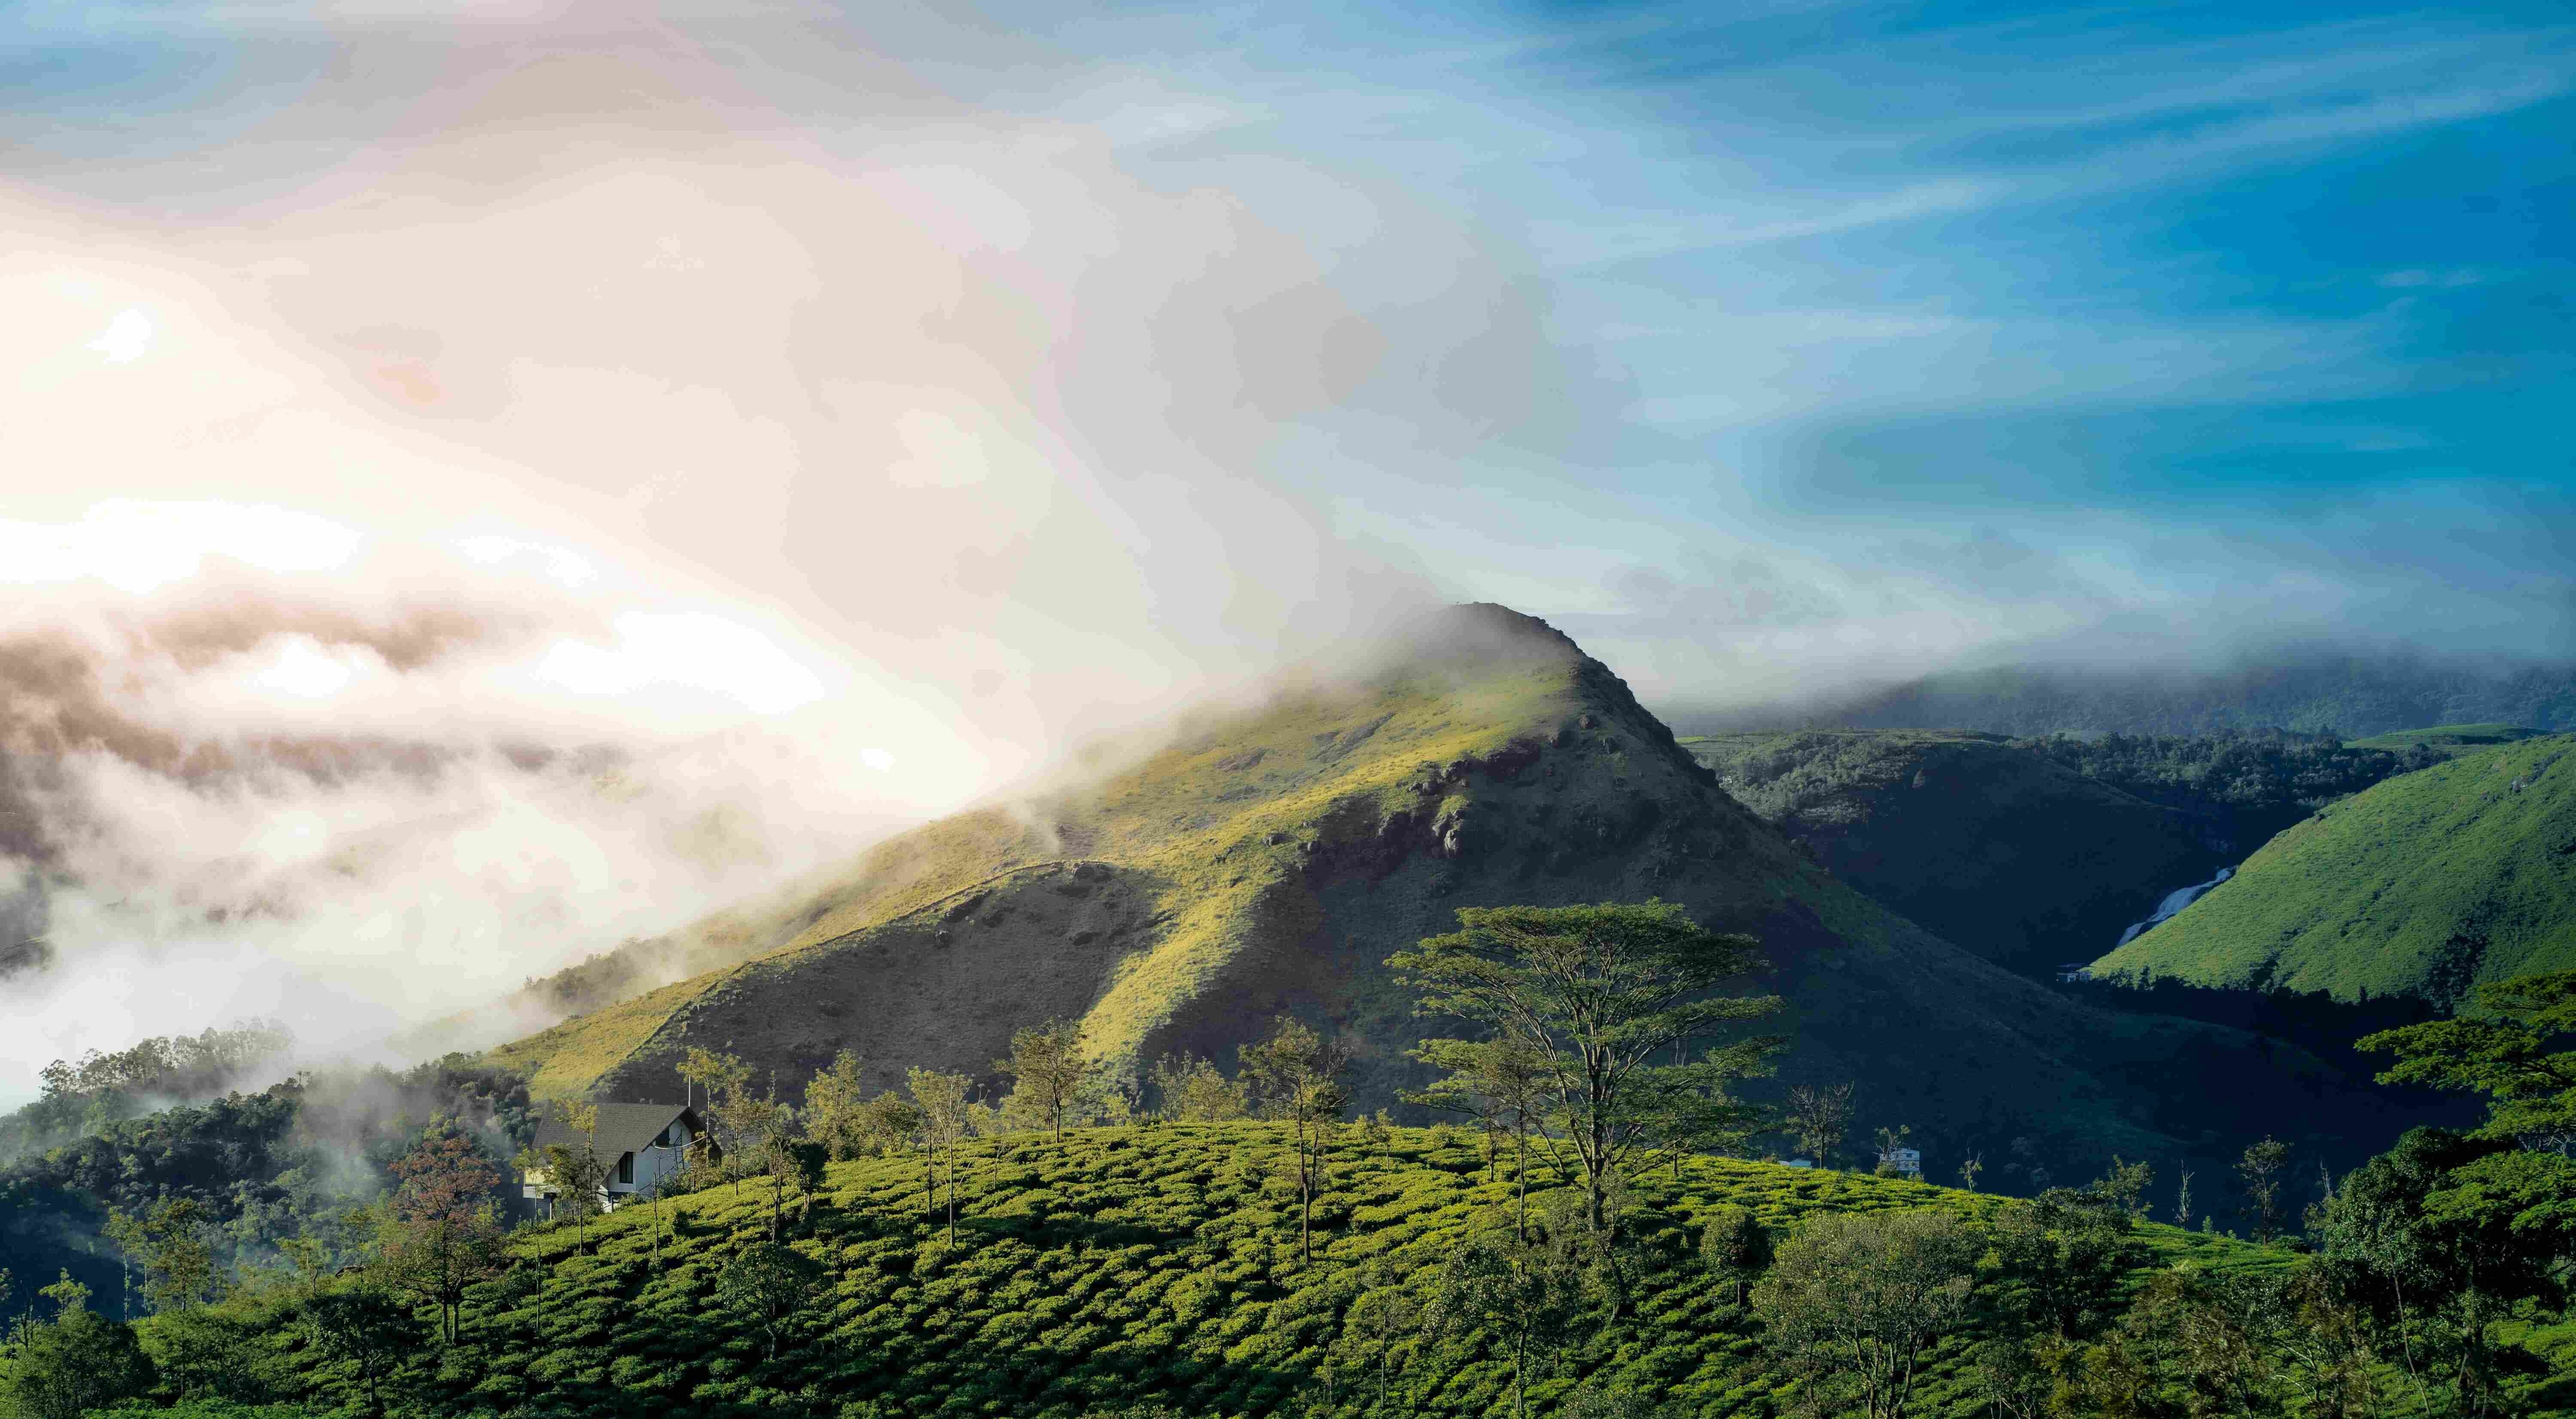
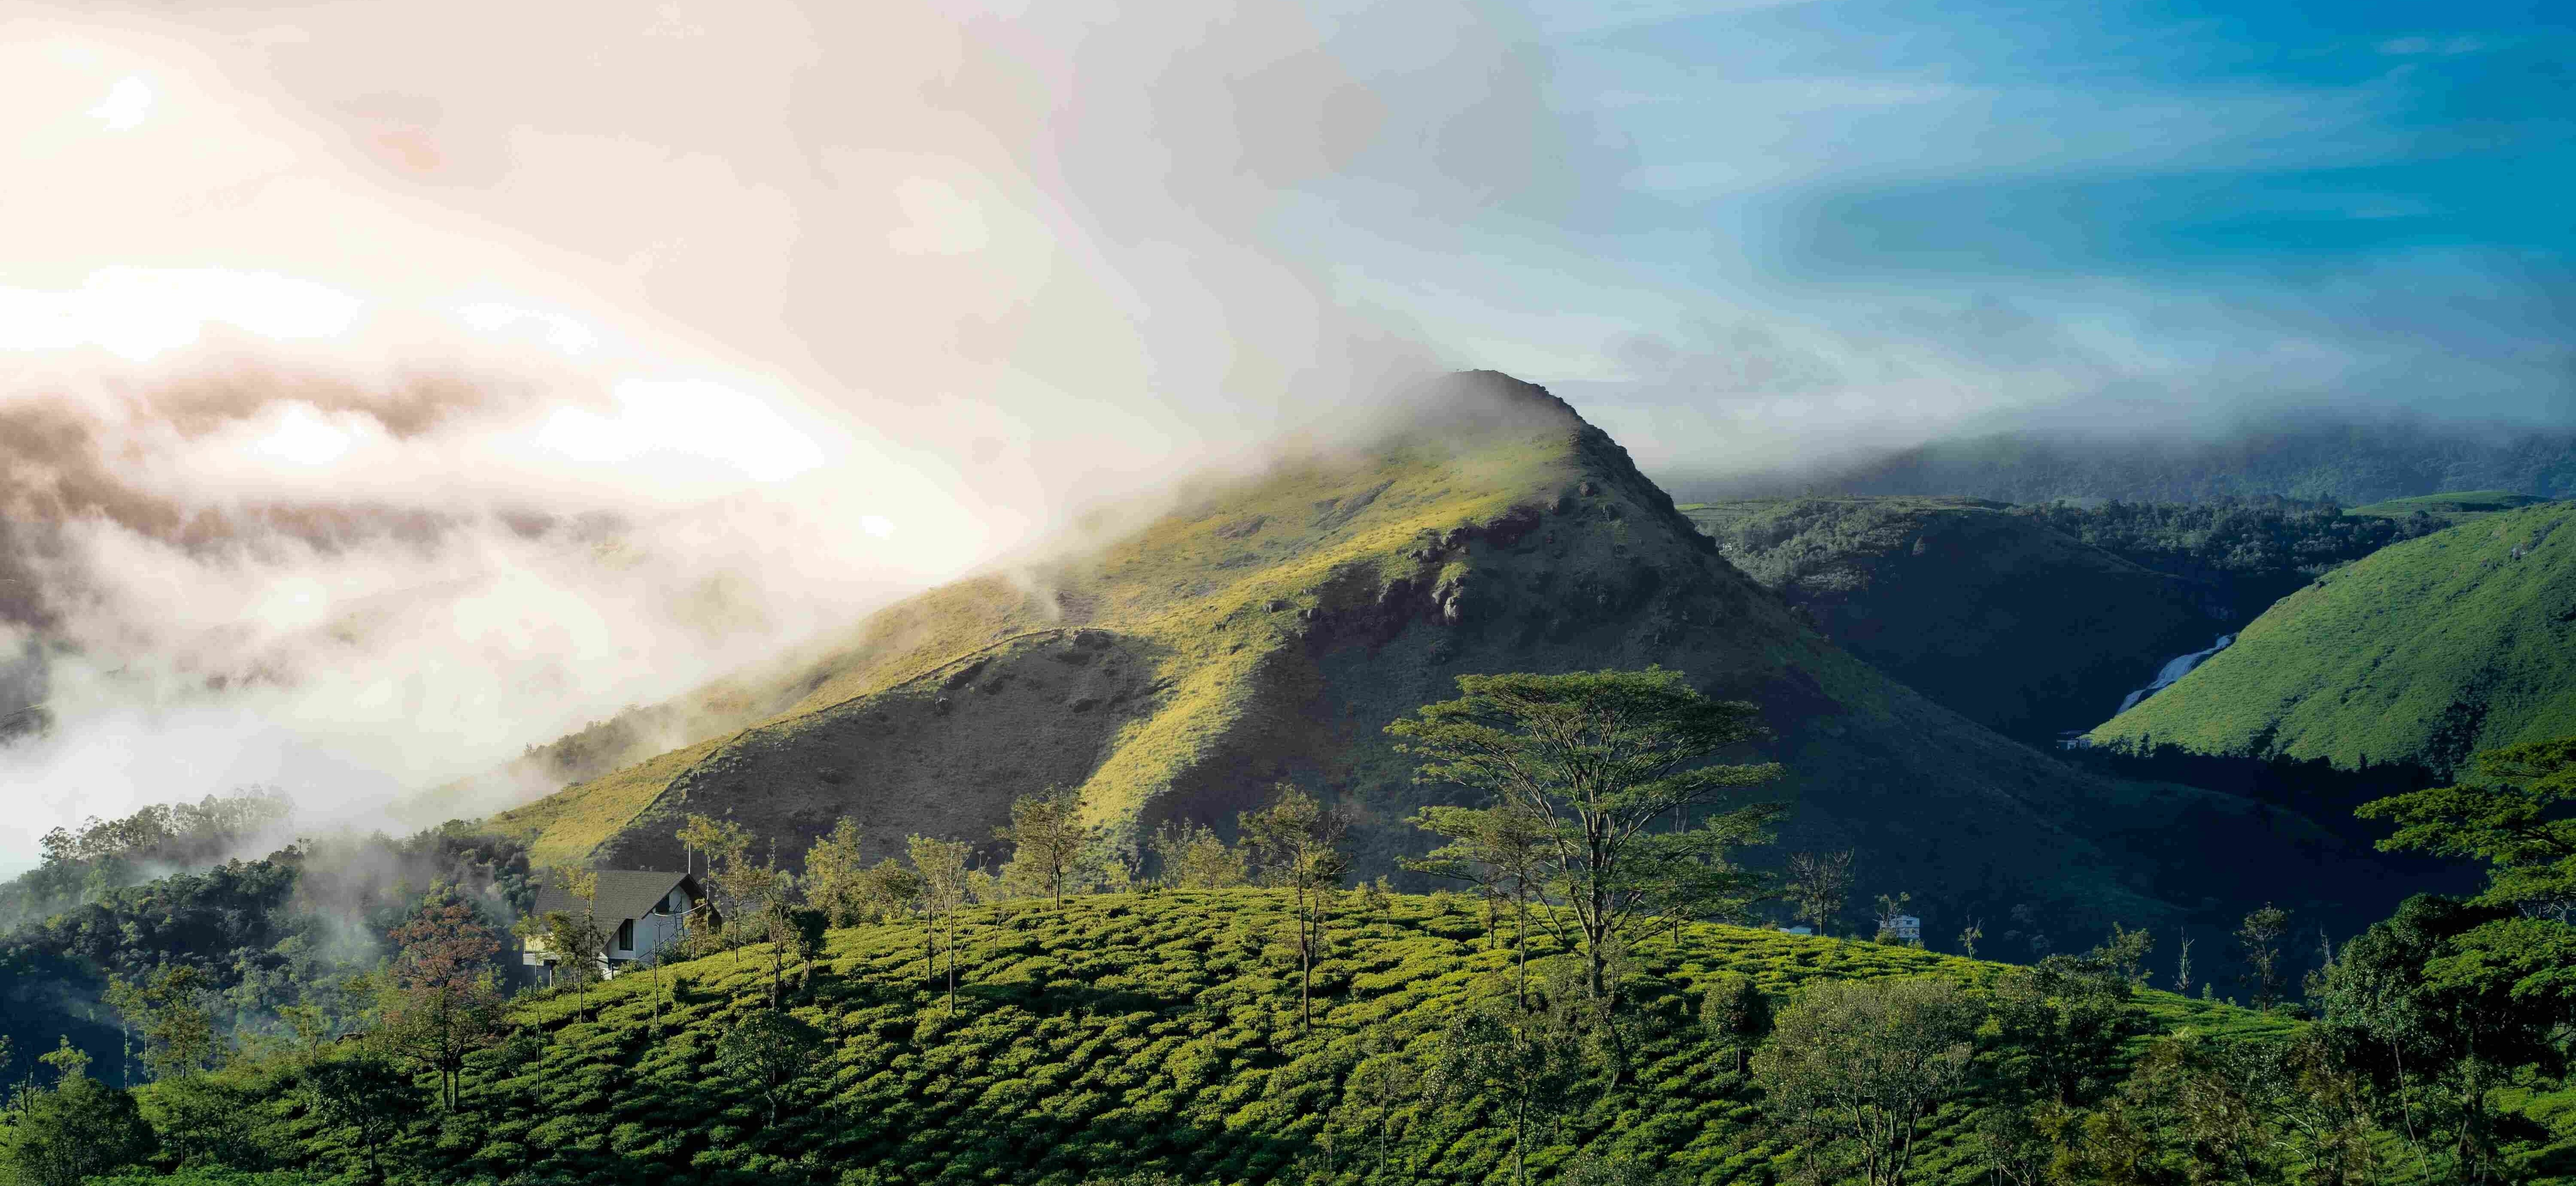
Updates Two

diff --git a/index.html b/index.html
@@ -181,7 +181,7 @@
         </div>
       </div>
       <div class="main-container-bg-absolute"><img
-          src="./Assets/banner.jpg"
+          src="./Assets/banner-compressed.jpg"
           style="object-fit: cover;object-position: bottom;"
           alt="Best nature resorts in Kakkadampoyil"
           sizes="(max-width: 767px) 100vw, (max-width: 1439px) 95vw, 1354px"
